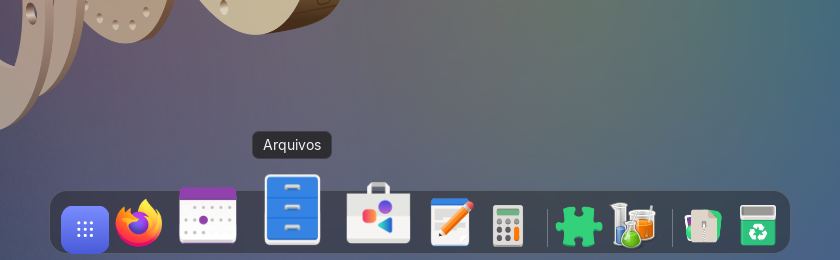
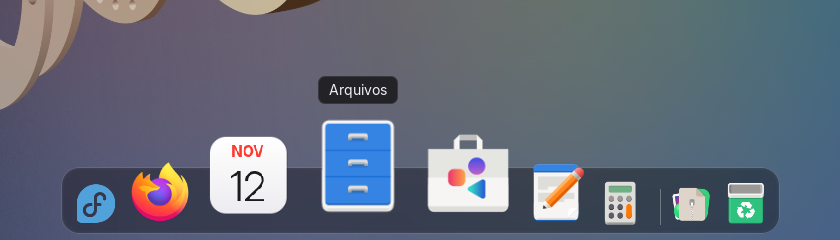
docs: atualiza o README e os prints para a versão 1.1.0

Changed region(s): [[0.0619, 0.4958, 0.9595, 0.9917], [0.0, 0.0, 0.4024, 0.4958], [0.3714, 0.2917, 0.4952, 0.4375]]

diff --git a/README.md b/README.md
@@ -1,25 +1,37 @@
 # Orla Dock
 
-Uma dock para o GNOME Shell inspirada na Dock do macOS: ampliação dos ícones em onda, efeito Gênio, Stacks, Lixeira, auto-ocultar, miniaturas ao vivo e muito mais. É uma extensão nativa: todo o código roda dentro do GNOME Shell, sem processos externos.
+Uma dock para o GNOME Shell inspirada na Dock do macOS: ampliação dos ícones em onda, efeito Gênio, Stacks, Lixeira, auto-ocultar, miniaturas ao vivo e muito mais. Também vira uma **barra de tarefas no estilo do Windows 10**. É uma extensão nativa: todo o código roda dentro do GNOME Shell, sem processos externos.
 
 ![A Orla Dock com a ampliação em onda](docs/screenshots/dock.png)
 
-| Stack em leque | Stack em grade | Preferências |
-| --- | --- | --- |
-| ![Stack em leque](docs/screenshots/stack-fan.png) | ![Stack em grade](docs/screenshots/stack-grid.png) | ![Preferências](docs/screenshots/preferences.png) |
+![O modo barra de tarefas](docs/screenshots/taskbar.png)
+
+| Stack em leque | Stack em grade | Preferências | Sobre |
+| --- | --- | --- | --- |
+| ![Stack em leque](docs/screenshots/stack-fan.png) | ![Stack em grade](docs/screenshots/stack-grid.png) | ![Preferências](docs/screenshots/preferences.png) | ![Sobre](docs/screenshots/about.png) |
 
 ## Recursos
 
+**Dois estilos**
+- **Dock (macOS):** flutuante, centralizada, com ampliação em onda.
+- **Barra de tarefas (Windows 10):** de ponta a ponta, ícones à esquerda, destaque do app em foco, sublinhado nos apps abertos, alerta laranja quando um app pede atenção e relógio com data.
+
 **Aparência e animações**
-- Dock flutuante com cantos arredondados, transparência e desfoque (blur) do próprio Shell, recortado nos cantos.
-- Ampliação em onda (os vizinhos crescem proporcionalmente) nas 4 posições.
+- Cantos arredondados, transparência e desfoque (blur) do próprio Shell, recortado nos cantos.
+- Temas prontos (Sistema, Cor personalizada com gradiente, Cor do papel de parede, Carbon, Nord, Catppuccin, Gruvbox, Dracula, Tokyo Night, Frost).
+- Vidro ajustável: intensidade, brilho, vibração e brilho na borda; contorno, espaçamento e preenchimento.
+- Ampliação em onda **suavizada a cada quadro** (os vizinhos crescem junto), com ajustes de suavidade, alcance e elevação, nas 4 posições.
+- Indicadores em ponto, traço, linha, quadrado ou um ponto por janela, com cor automática, de destaque ou personalizada.
+- Ícone do Calendário com a data de hoje.
 - Ícones entram e saem com animação; quicam ao abrir um app e quando uma janela pede atenção.
 - Indicadores de apps abertos, nome do app ao passar o mouse e reflexo opcional dos ícones.
 - Efeitos de minimizar **Gênio** e **Escala**, entrando no ícone do app ou numa miniatura própria perto da lixeira.
 - Segue o estilo claro/escuro do sistema.
 
 **Aplicativos**
-- Apps fixados compartilhados com os favoritos do GNOME, mais apps abertos e uma seção de recentes/sugeridos.
+- Apps fixados compartilhados com os favoritos do GNOME, mais apps abertos e uma seção opcional de recentes/sugeridos.
+- Botão de aplicativos com o logo do sistema (padrão), grade, bloco colorido ou imagem personalizada.
+- Botão direito na divisória ou no fundo: posição na tela, estilo, ocultação, ampliação e configurações.
 - Um clique abre, traz para frente, alterna entre janelas ou minimiza. O botão do meio abre uma nova janela, e a rodinha do mouse alterna entre janelas.
 - Menu de contexto com a lista de janelas, as ações do `.desktop` (ex.: "Nova janela privada"), Manter no Dock, Mostrar todas as janelas, Ocultar e Encerrar.
 - Arrastar para reordenar, arrastar para fora para remover (com "fumacinha") ou soltar sobre a lixeira.
@@ -100,6 +112,11 @@ journalctl -f -o cat /usr/bin/gjs
 | `lib/appTracker.js` | Modelo: quais apps aparecem e em que ordem |
 | `lib/appMenu.js` | Menus de contexto |
 | `lib/magnification.js` | Matemática da ampliação em onda |
+| `lib/magnifier.js` | Motor da ampliação: suavização a cada quadro |
+| `lib/themes.js` | Temas e cores (CSS do fundo, contorno, brilho) |
+| `lib/wallpaperColor.js` | Cor predominante do papel de parede |
+| `lib/calendarIcon.js` | Ícone do Calendário com a data de hoje |
+| `lib/taskbarClock.js` | Relógio com data do modo barra de tarefas |
 | `lib/animations.js` | Quique e "fumacinha" |
 | `lib/minimizeEffects.js` | Efeitos Gênio e Escala |
 | `lib/autohide.js` | Auto-ocultar e reserva de espaço (struts) |
